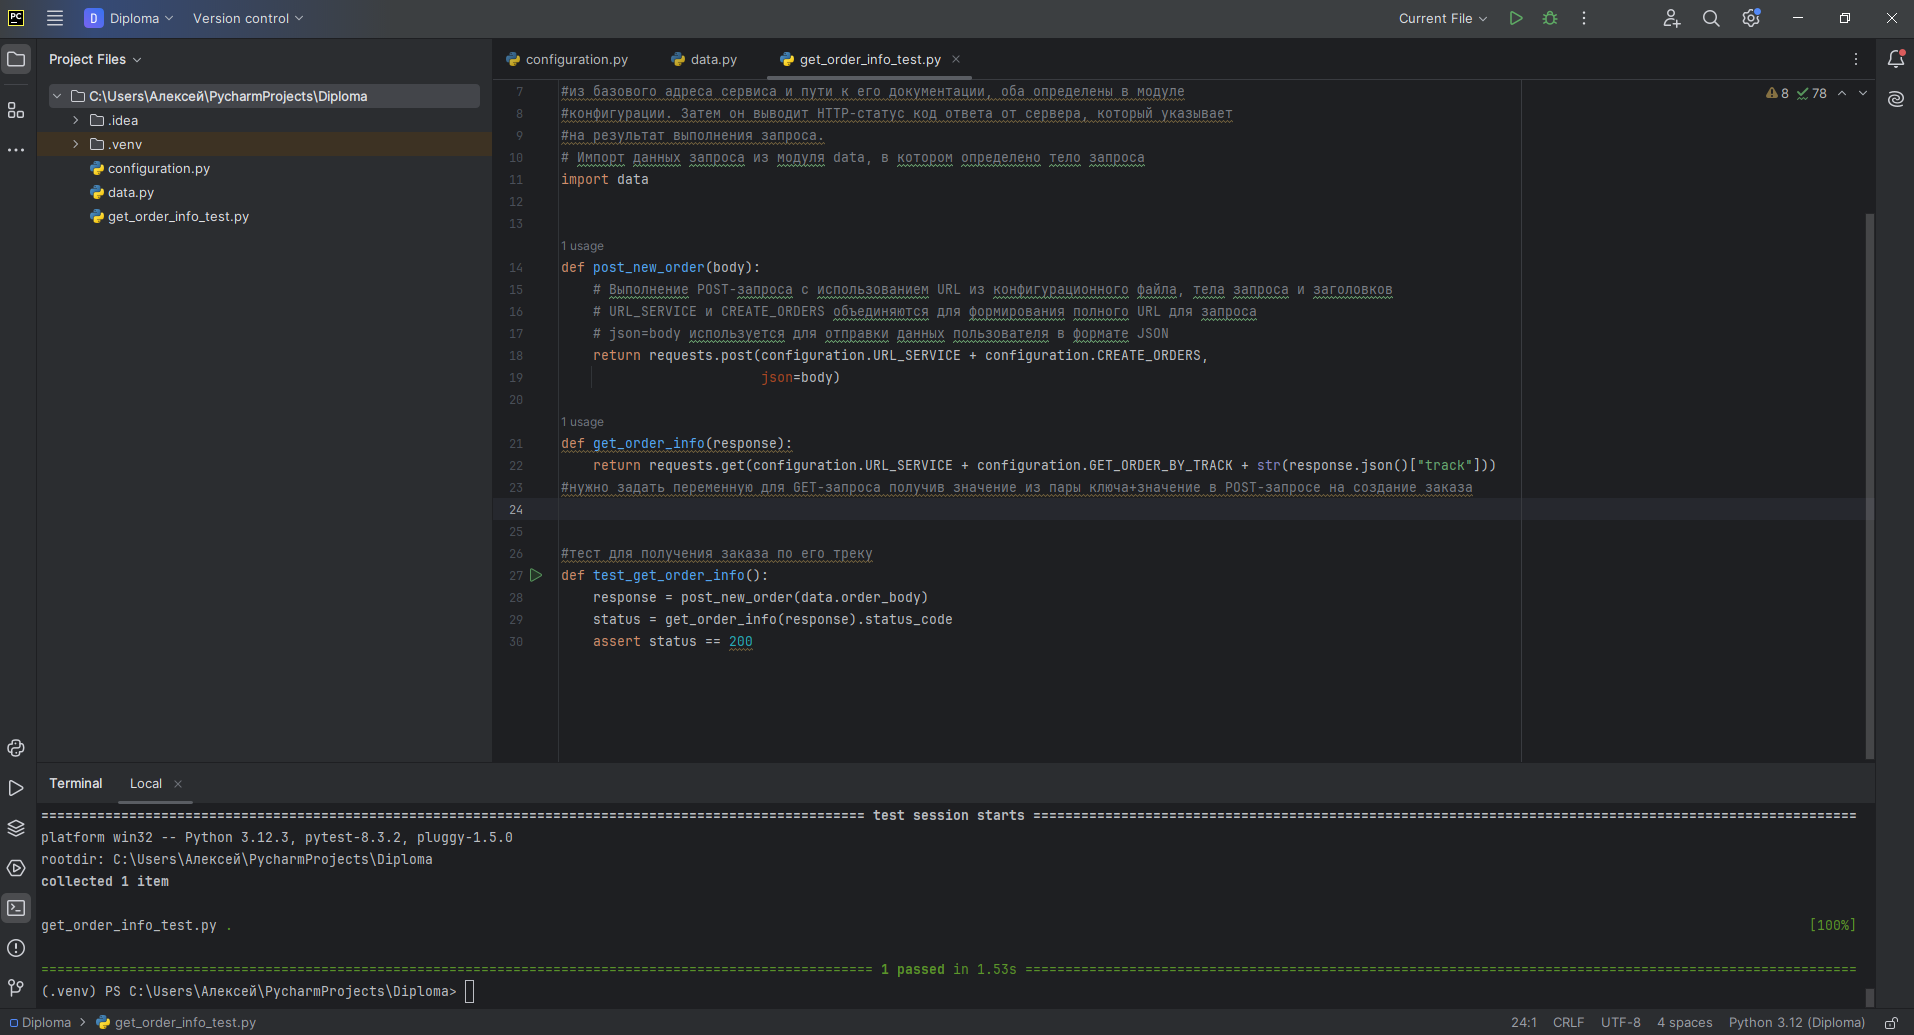
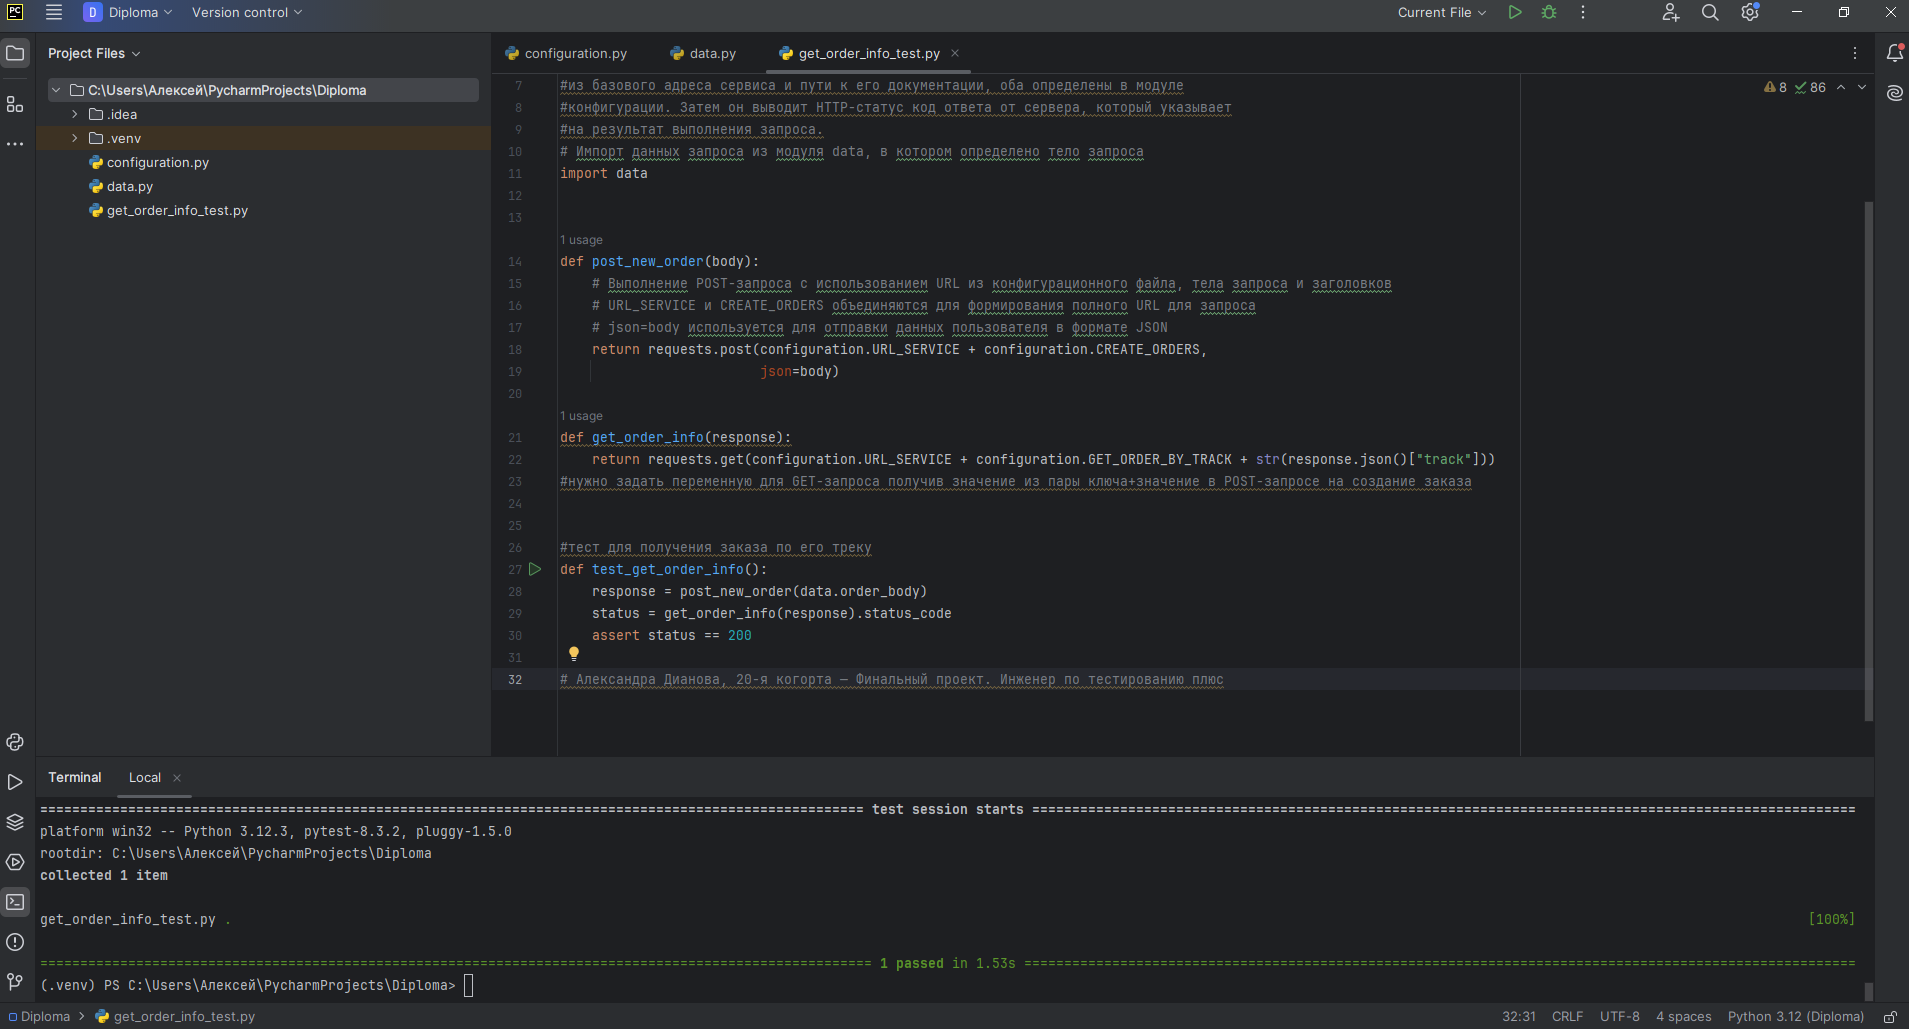
change

diff --git a/get_order_info_test.py b/get_order_info_test.py
@@ -28,3 +28,5 @@ def test_get_order_info():
     response = post_new_order(data.order_body)
     status = get_order_info(response).status_code
     assert status == 200
+
+# Александра Дианова, 20-я когорта — Финальный проект. Инженер по тестированию плюс
